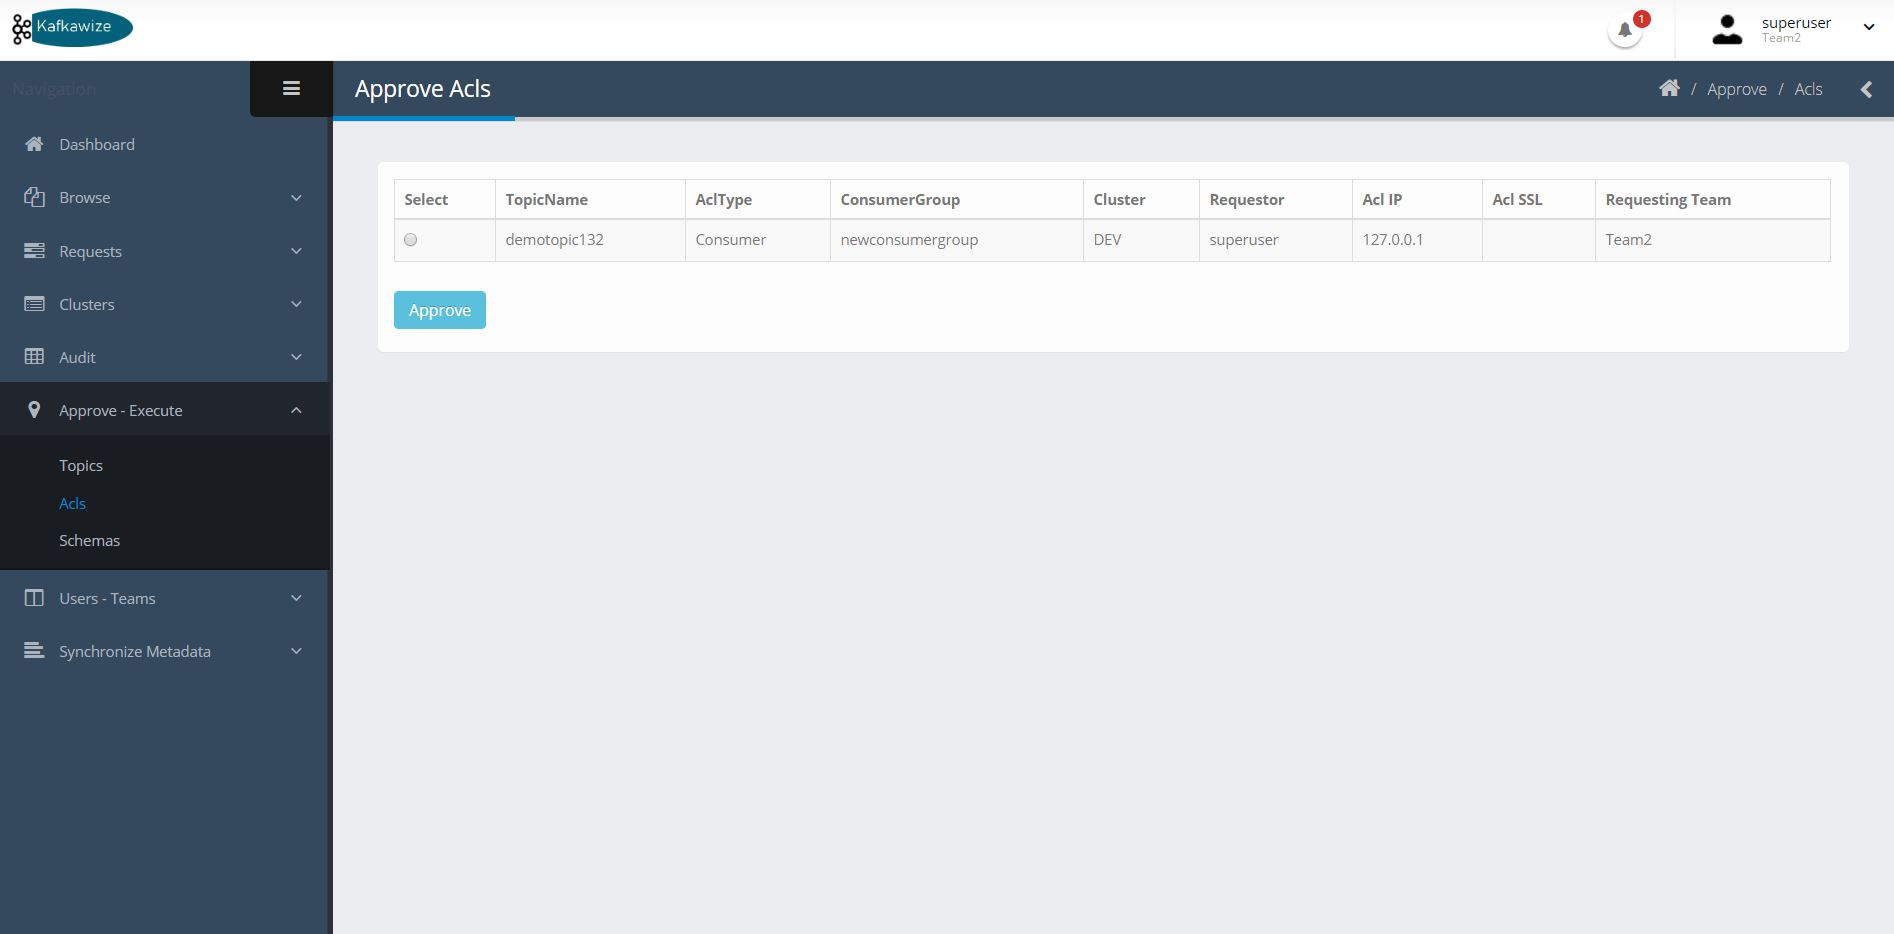
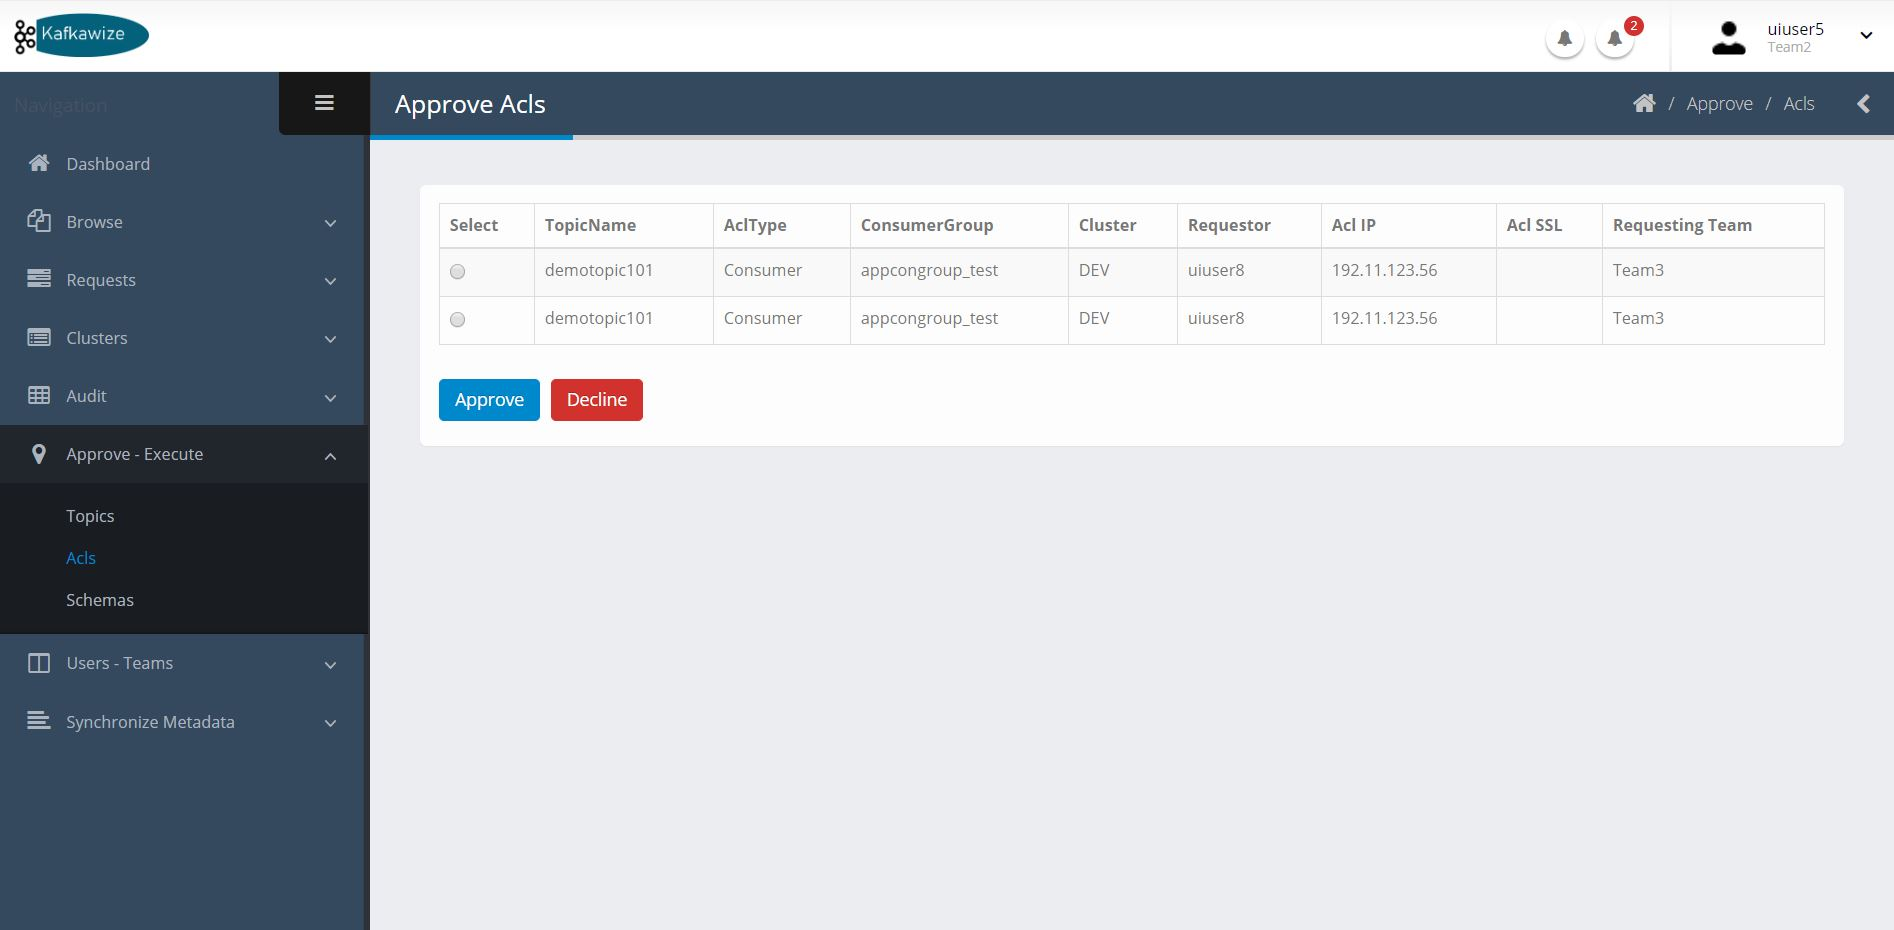
Adding notifications for acls

Changed region(s): [[0.0, 0.0, 1.0, 1.0], [0.0, 0.7484, 0.1246, 0.7796], [0.623, 0.343, 0.6542, 0.3742]]

diff --git a/src/main/resources/templates/index.html b/src/main/resources/templates/index.html
@@ -63,16 +63,6 @@
         <!-- start: search & user box -->
         <div class="header-right">
 
-            <!--<form action="pages-search-results.html" class="search nav-form">-->
-            <!--<div class="input-group input-search">-->
-            <!--<input type="text" class="form-control" name="q" id="q" placeholder="Search...">-->
-            <!--<span class="input-group-btn">-->
-            <!--<button class="btn btn-default" type="submit"><i class="fa fa-search"></i></button>-->
-            <!--</span>-->
-            <!--</div>-->
-            <!--</form>-->
-            <!---->
-            <!--<span class="separator"></span>-->
             <ul ng-if="statusauthexectopics=='Authorized'" class="notifications">
 
                 <li>
@@ -81,7 +71,12 @@
                         <span class="badge">{{ notifications }}</span>
                     </a>
 
-
+                </li>
+                <li>
+                    <a href="execAcls" class="dropdown-toggle notification-icon">
+                        <i class="fa fa-bell"></i>
+                        <span class="badge">{{ notificationsAcls }}</span>
+                    </a>
                 </li>
             </ul>
 

diff --git a/src/main/resources/static/js/execAcls.js b/src/main/resources/static/js/execAcls.js
@@ -42,6 +42,7 @@ app.controller("execAclsCtrl", function($scope, $http, $location, $window) {
                    $scope.userlogged = output.username;
                    $scope.teamname = output.teamname;
                     $scope.notifications = output.notifications;
+                    $scope.notificationsAcls = output.notificationsAcls;
                    $scope.statusauthexectopics = output.statusauthexectopics;
                    $scope.alerttop = output.alertmessage;
                    if(output.companyinfo == null){
@@ -146,7 +147,7 @@ app.controller("execAclsCtrl", function($scope, $http, $location, $window) {
                          data: {'req_no' : $scope.execAclRequest.req_no}
                      }).success(function(output) {
 
-                         $scope.alert = "Acl Approve Request : "+output.result;
+                         $scope.alert = "Acl Decline Request : "+output.result;
                          $scope.getMyAclRequests();
 
                      }).error(

diff --git a/src/main/resources/static/js/browseTopics.js b/src/main/resources/static/js/browseTopics.js
@@ -42,7 +42,8 @@ app.controller("browseTopicsCtrl", function($scope, $http, $location, $window) {
             $scope.statusauth = output.status;
             $scope.userlogged = output.username;
             $scope.teamname = output.teamname;
-             $scope.notifications = output.notifications;
+            $scope.notifications = output.notifications;
+            $scope.notificationsAcls = output.notificationsAcls;
             $scope.statusauthexectopics = output.statusauthexectopics;
             $scope.alerttop = output.alertmessage;
             if(output.companyinfo == null){

diff --git a/src/main/resources/static/js/requestAvroSchemaUpload.js b/src/main/resources/static/js/requestAvroSchemaUpload.js
@@ -133,6 +133,7 @@ app.controller("requestSchemaCtrl", function($scope, $http, $location, $window) 
                     $scope.userlogged = output.username;
                     $scope.teamname = output.teamname;
                      $scope.notifications = output.notifications;
+                    $scope.notificationsAcls = output.notificationsAcls;
                     $scope.statusauthexectopics = output.statusauthexectopics;
                     $scope.alerttop = output.alertmessage;
                     if(output.companyinfo == null){

diff --git a/src/main/resources/static/js/manageUsers.js b/src/main/resources/static/js/manageUsers.js
@@ -272,6 +272,7 @@ app.controller("manageUsersCtrl", function($scope, $http, $location, $window) {
                     $scope.userlogged = output.username;
                     $scope.teamname = output.teamname;
                      $scope.notifications = output.notifications;
+                    $scope.notificationsAcls = output.notificationsAcls;
                     $scope.statusauthexectopics = output.statusauthexectopics;
                     $scope.alerttop = output.alertmessage;
                     if(output.companyinfo == null){

diff --git a/src/main/resources/static/js/execTopics.js b/src/main/resources/static/js/execTopics.js
@@ -103,6 +103,7 @@ app.controller("execTopicsCtrl", function($scope, $http, $location, $window) {
                     $scope.userlogged = output.username;
                     $scope.teamname = output.teamname;
                      $scope.notifications = output.notifications;
+                    $scope.notificationsAcls = output.notificationsAcls;
                     $scope.statusauthexectopics = output.statusauthexectopics;
                     $scope.alerttop = output.alertmessage;
                     if(output.companyinfo == null){

diff --git a/src/main/resources/static/js/execSchemas.js b/src/main/resources/static/js/execSchemas.js
@@ -82,6 +82,7 @@ app.controller("execSchemasCtrl", function($scope, $http, $location, $window) {
                     $scope.userlogged = output.username;
                     $scope.teamname = output.teamname;
                      $scope.notifications = output.notifications;
+                    $scope.notificationsAcls = output.notificationsAcls;
                     $scope.statusauthexectopics = output.statusauthexectopics;
                     $scope.alerttop = output.alertmessage;
                     if(output.companyinfo == null){

diff --git a/src/main/resources/static/js/requestAcls.js b/src/main/resources/static/js/requestAcls.js
@@ -32,6 +32,7 @@ app.controller("requestAclsCtrl", function($scope, $http, $location, $window) {
                     $scope.userlogged = output.username;
                     $scope.teamname = output.teamname;
                      $scope.notifications = output.notifications;
+                    $scope.notificationsAcls = output.notificationsAcls;
                     $scope.statusauthexectopics = output.statusauthexectopics;
                     $scope.alerttop = output.alertmessage;
                     if(output.companyinfo == null){

diff --git a/src/main/resources/static/js/myRequests.js b/src/main/resources/static/js/myRequests.js
@@ -28,6 +28,7 @@ app.controller("myRequestsCtrl", function($scope, $http, $location, $window) {
                     $scope.userlogged = output.username;
                     $scope.teamname = output.teamname;
                      $scope.notifications = output.notifications;
+                    $scope.notificationsAcls = output.notificationsAcls;
                     $scope.statusauthexectopics = output.statusauthexectopics;
                     $scope.alerttop = output.alertmessage;
                     if(output.companyinfo == null){

diff --git a/src/main/resources/static/js/pcTopics.js b/src/main/resources/static/js/pcTopics.js
@@ -101,6 +101,7 @@ app.controller("pcTopicsCtrl", function($scope, $http, $location, $window) {
                     $scope.userlogged = output.username;
                     $scope.teamname = output.teamname;
                      $scope.notifications = output.notifications;
+                    $scope.notificationsAcls = output.notificationsAcls;
                     $scope.statusauthexectopics = output.statusauthexectopics;
                     $scope.alerttop = output.alertmessage;
                     if(output.companyinfo == null){

diff --git a/src/main/resources/static/js/requestTopics.js b/src/main/resources/static/js/requestTopics.js
@@ -123,6 +123,7 @@ app.controller("requestTopicsCtrl", function($scope, $http, $location, $window) 
                    $scope.userlogged = output.username;
                    $scope.teamname = output.teamname;
                    $scope.notifications = output.notifications;
+                    $scope.notificationsAcls = output.notificationsAcls;
                    $scope.statusauthexectopics = output.statusauthexectopics;
                    $scope.alerttop = output.alertmessage;
                    if(output.companyinfo == null){

diff --git a/src/main/resources/static/js/envs.js b/src/main/resources/static/js/envs.js
@@ -120,6 +120,7 @@ app.controller("envsCtrl", function($scope, $http, $location, $window) {
                    $scope.userlogged = output.username;
                    $scope.teamname = output.teamname;
                     $scope.notifications = output.notifications;
+                    $scope.notificationsAcls = output.notificationsAcls;
                    $scope.statusauthexectopics = output.statusauthexectopics;
                    $scope.alerttop = output.alertmessage;
                    if(output.companyinfo == null){
